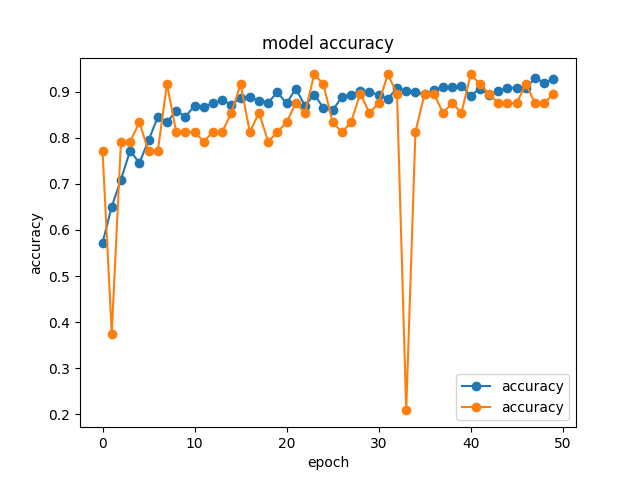
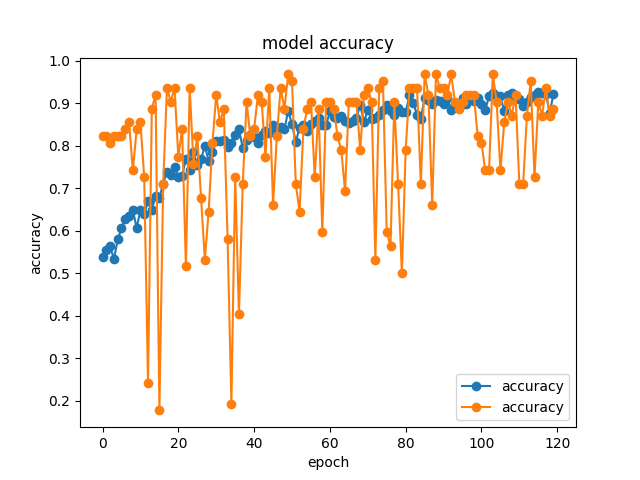
[fix]PENALTYの値を変更

diff --git a/src/model.py b/src/model.py
@@ -22,9 +22,9 @@ from keras.utils.np_utils import to_categorical
 import data_loader
 
 
-EPOCHS = 50
+EPOCHS = 120
 BATCH_SIZE = 16
-PENALTY = 100
+PENALTY = 6
 
 
 class Foreigner_classifier():
@@ -60,8 +60,8 @@ class Foreigner_classifier():
         with open(pre_trained_model_path + ".json", "rt")as f:
             json_model = f.read()
         self.model = model_from_json(json_model)
-        self.model.compile(loss="categorical_crossentropy",
-                           optimizer=lean_weight_loss,
+        self.model.compile(loss=lean_weight_loss,
+                           optimizer="adam",
                            metrics=["accuracy"])
         self.model.load_weights(pre_trained_model_path + ".h5")
 
@@ -101,7 +101,7 @@ class Foreigner_classifier():
         self.model.add(GlobalAveragePooling2D())
         self.model.add(Activation("softmax"))
 
-        self.model.compile(loss="categorical_crossentropy",
+        self.model.compile(loss=lean_weight_loss,
                            optimizer="adam",
                            metrics=["accuracy"])
 
